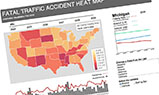
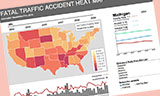
update homepage slider, add self intro

diff --git a/index.html b/index.html
@@ -48,56 +48,59 @@
 	    </nav>
 
 	    <div class="container">
-
-<div class="jumbotron" id="slider">
-			<div id="wowslider-container1">
-		<div class="ws_images">
-			<ul>
-				<li>
-					<a href="#fatal"><img src="img/works/fatal_oblique.jpg" alt="Data Visualization" title="Data Visualization" id="wows1_0"/></a>
-					I visulize information for viewers to understand and interact with data.
-				</li>
-				<li>
-					<a href="#jigsaw"><img src="img/works/jigsaw_oblique.jpg" alt="HTML5 Canvas Game" title="HTML5 Canvas Game" id="wows1_1"/></a>
-					I use HTML5 to make web content more interesting.
-				</li>
-				<li>
-					<a href="#hcn"><img src="img/works/hcn_oblique.jpg" alt="PHP Web Database" title="PHP Web Database" id="wows1_2"/></a>
-					I develop PHP web apps and SQL databases for organizations to manage and share data.
-				</li>
-				<li>
-					<a href="#erent"><img src="img/works/erent.jpg" alt="Commercial Mobile Apps" title="Commercial Mobile Apps" id="wows1_3"/></a>
-					I develop iPhone Applications to help people improve working efficiency.
-				</li>
-				<li>
-					<a href="#webApp"><img src="img/works/webApp.jpg" alt="Personal Mobile Tools" title="Personal Mobile Tools" id="wows1_4"/></a>
-					I make iPhone apps to help people record their daily life.
-				</li>
-			</ul>
-		</div>
-		<div class="ws_thumbs">
-			<div>
-				<a href="#" title="Data Visualization">
-					<img src="img/thrumbs/fatal_oblique.jpg" alt="" />
-				</a>
-				<a href="#" title="HTML5 Canvas Game">
-					<img src="img/thrumbs/jigsaw_oblique.jpg" alt="" />
-				</a>
-				<a href="#" title="PHP Web Database">
-					<img src="img/thrumbs/hcn_oblique.jpg" alt="" />
-				</a>
-				<a href="#" title="Commercial Mobile Apps">
-					<img src="img/thrumbs/erent.jpg" alt="" />
-				</a>
-				<a href="#" title="Personal Mobile Tools">
-					<img src="img/thrumbs/webApp.jpg" alt="" />
-				</a>
+	    	<div class="row" id="row1">
+				<div class="col-md-9 jumbotron" id="slider">
+					<div id="wowslider-container1">
+						<div class="ws_images">
+							<ul>
+								<li>
+									<a href="#fatal"><img src="img/works/fatal_oblique.jpg" alt="Data Visualization" title="Data Visualization" id="wows1_0"/></a>
+									I visulize information for viewers to understand and interact with data.
+								</li>
+								<li>
+									<a href="#jigsaw"><img src="img/works/jigsaw_oblique.jpg" alt="HTML5 Canvas Game" title="HTML5 Canvas Game" id="wows1_1"/></a>
+									I use HTML5 to make web content more interesting.
+								</li>
+								<li>
+									<a href="#hcn"><img src="img/works/hcn_oblique.jpg" alt="PHP Web Database" title="PHP Web Database" id="wows1_2"/></a>
+									I develop PHP web apps and SQL databases for organizations to manage and share data.
+								</li>
+								<li>
+									<a href="#erent"><img src="img/works/erent.jpg" alt="Commercial Mobile Apps" title="Mobile Apps" id="wows1_3"/></a>
+									I develop iPhone Applications to help people improve working efficiency.
+								</li>
+								<li>
+									<a href="#webApp"><img src="img/works/Beijing_2_oblique.jpg" alt="Personal Mobile Tools" title="Graphic Design" id="wows1_4"/></a>
+									I design graphs to make things beautiful and attract human eyes.
+								</li>
+							</ul>
+						</div>
+						<div class="ws_thumbs">
+							<div>
+								<a href="#" title="Data Visualization">
+									<img src="img/thrumbs/fatal_oblique.jpg" alt="" />
+								</a>
+								<a href="#" title="HTML5 Canvas Game">
+									<img src="img/thrumbs/jigsaw_oblique.jpg" alt="" />
+								</a>
+								<a href="#" title="PHP Web Database">
+									<img src="img/thrumbs/hcn_oblique.jpg" alt="" />
+								</a>
+								<a href="#" title="Mobile Apps">
+									<img src="img/thrumbs/erent.jpg" alt="" />
+								</a>
+								<a href="#" title="Graphic Design">
+									<img src="img/thrumbs/Beijing_2_oblique.jpg" alt="" />
+								</a>
+							</div>
+						</div>
+					</div>
+				</div>
+				<div class=".col-xs-12 col-md-3" id="intro">
+					<h1>Hello, I'm <span id="name">Lei Zhang</span>, a web designer and developer. </h1>
+					<h3>I like making things beautiful and making great ideas happen.</h3>
+				</div>
 			</div>
-		</div>
-	</div>
-</div>
-	
-				
 			<div class="jumbotron">
 				<h1>Navbar example</h1>
 				<p>This example is a quick exercise to illustrate how the default, static and fixed to top navbar work. It includes the responsive CSS and HTML, so it also adapts to your viewport and device.</p>

diff --git a/css/slider.css b/css/slider.css
@@ -8,7 +8,7 @@
 	position: relative; 
 	max-width:800px;
 	max-height: 480px;
-	margin:-20px auto -20px 200px;
+	margin:-20px -25px -20px 150px;
 	z-index:90;
 	border:none;
 	text-align:left; /* reset align=center */
@@ -165,28 +165,21 @@
 #wowslider-container1 .ws-title{
 	position:absolute;
 	display:block;
-	bottom: 17px;
-	left: 0px;
-	margin: 9px;
-	margin-left: 0px;
-	margin-right: 9px; 
+	bottom: 0;
+	left: 0;
 	padding:8px;
-	background:#FFFFFF;
-	color:#5D5D5D;
+	background:#836f5d;
+	color:#fff;
 	z-index: 50;
-	font-family:'Open Sans',Arial,Helvetica,sans-serif;
-	font-size: 18px;
-	border-radius:5px;
-	-moz-border-radius:0 10px 10px 0;
-	border-radius:0 10px 10px 0;   
+	font-size: 20px;
+	font-weight: bold;
 	opacity:0.8;
 	filter:progid:DXImageTransform.Microsoft.Alpha(opacity=90);	
-	-moz-box-shadow: 0 0 2px #5D5D5D;
-    box-shadow: 0 0 2px #5D5D5D; 
 }
 #wowslider-container1 .ws-title div{
-	padding-top:5px;
-	font-size: 14px;
+	padding-top: 5px;
+	font-size: 16px;
+	font-weight: normal;
 }
 #wowslider-container1  .ws_thumbs { 
 	font-size: 0px; 
@@ -198,7 +191,7 @@
 	position:relative;
 	text-indent: -4000px; 
 	color:transparent;
-	opacity:0.85;
+	opacity:0.8;
 }
 #wowslider-container1 .ws_thumbs a:hover{
 	opacity:1;

diff --git a/css/main.css b/css/main.css
@@ -12,7 +12,6 @@
 .logoText {
 	font-size: 1.8em;
 	font-family: 'Yanone Kaffeesatz', sans-serif;
-	/*font-family: 'Economica', sans-serif;*/
 }
 
 .slogan {
@@ -67,23 +66,51 @@
 	transform: translateY(0px);
 }
 
-#slider {
-	margin-top: 4em;
+#row1 {
+	margin: 6em 0 0 0.1em;
+}
+
+#intro {
+	padding: 1.3em 2em;
+}
+
+#intro h1{
+	padding: 0.3em 0;
+}
+
+#intro h3 {
+	margin-top: 1em;
+	padding: 0.7em;
+	color: #fff;
+	background-color: #9CB5A4;
+}
+
+#name {
+	color: #836f5d;
 }
 
 /* For mobile viewer */
+@media (max-width: 1199px){
+	h1 {
+	  	font-size: 2em;
+	}
+	h3 {
+	  	font-size: 1.3em;
+	}
+}
+
 @media (max-width: 991px){
-  p.navbar-text {
-    display: none;
-  }
+	p.navbar-text {
+		display: none;
+	}
 }
 
 @media (max-width: 767px){
-  #s3slider {
-    display: none;
-  }
+	#slider {
+		display: none;
+	}
 
-  .jumbotron {
-  	margin-top: 4em;
-  }
+	.jumbotron {
+		margin-top: 4em;
+	}
 }
